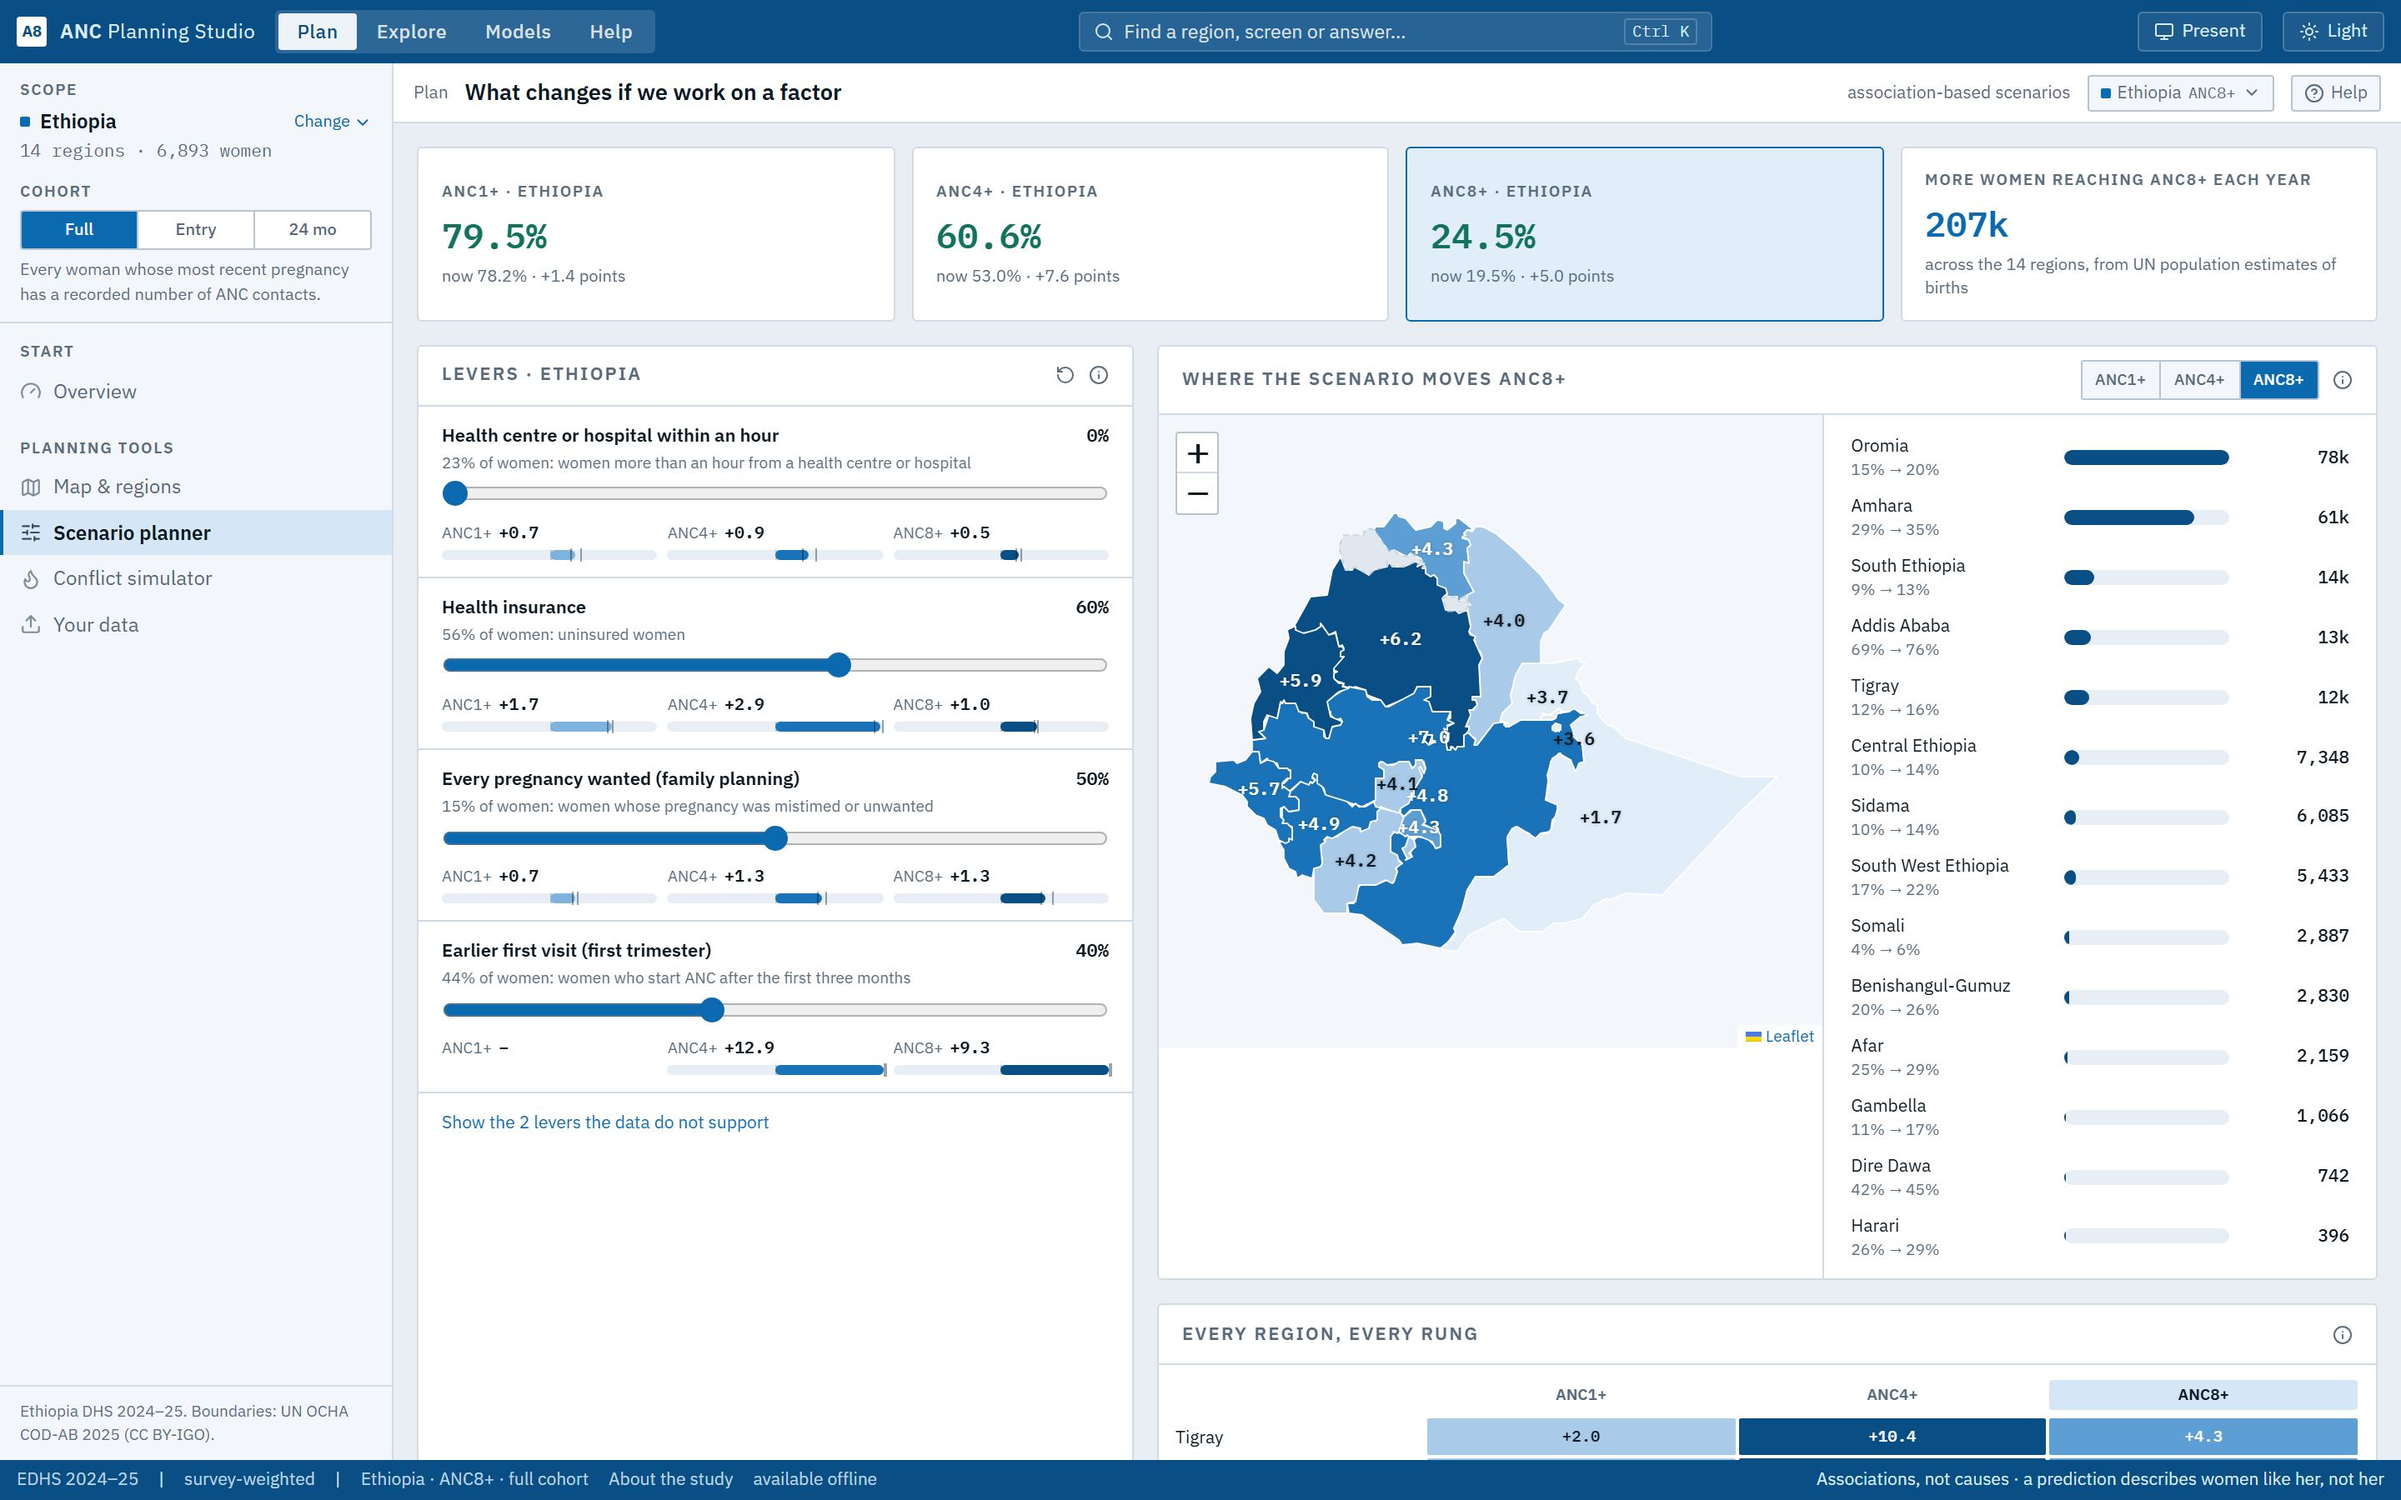
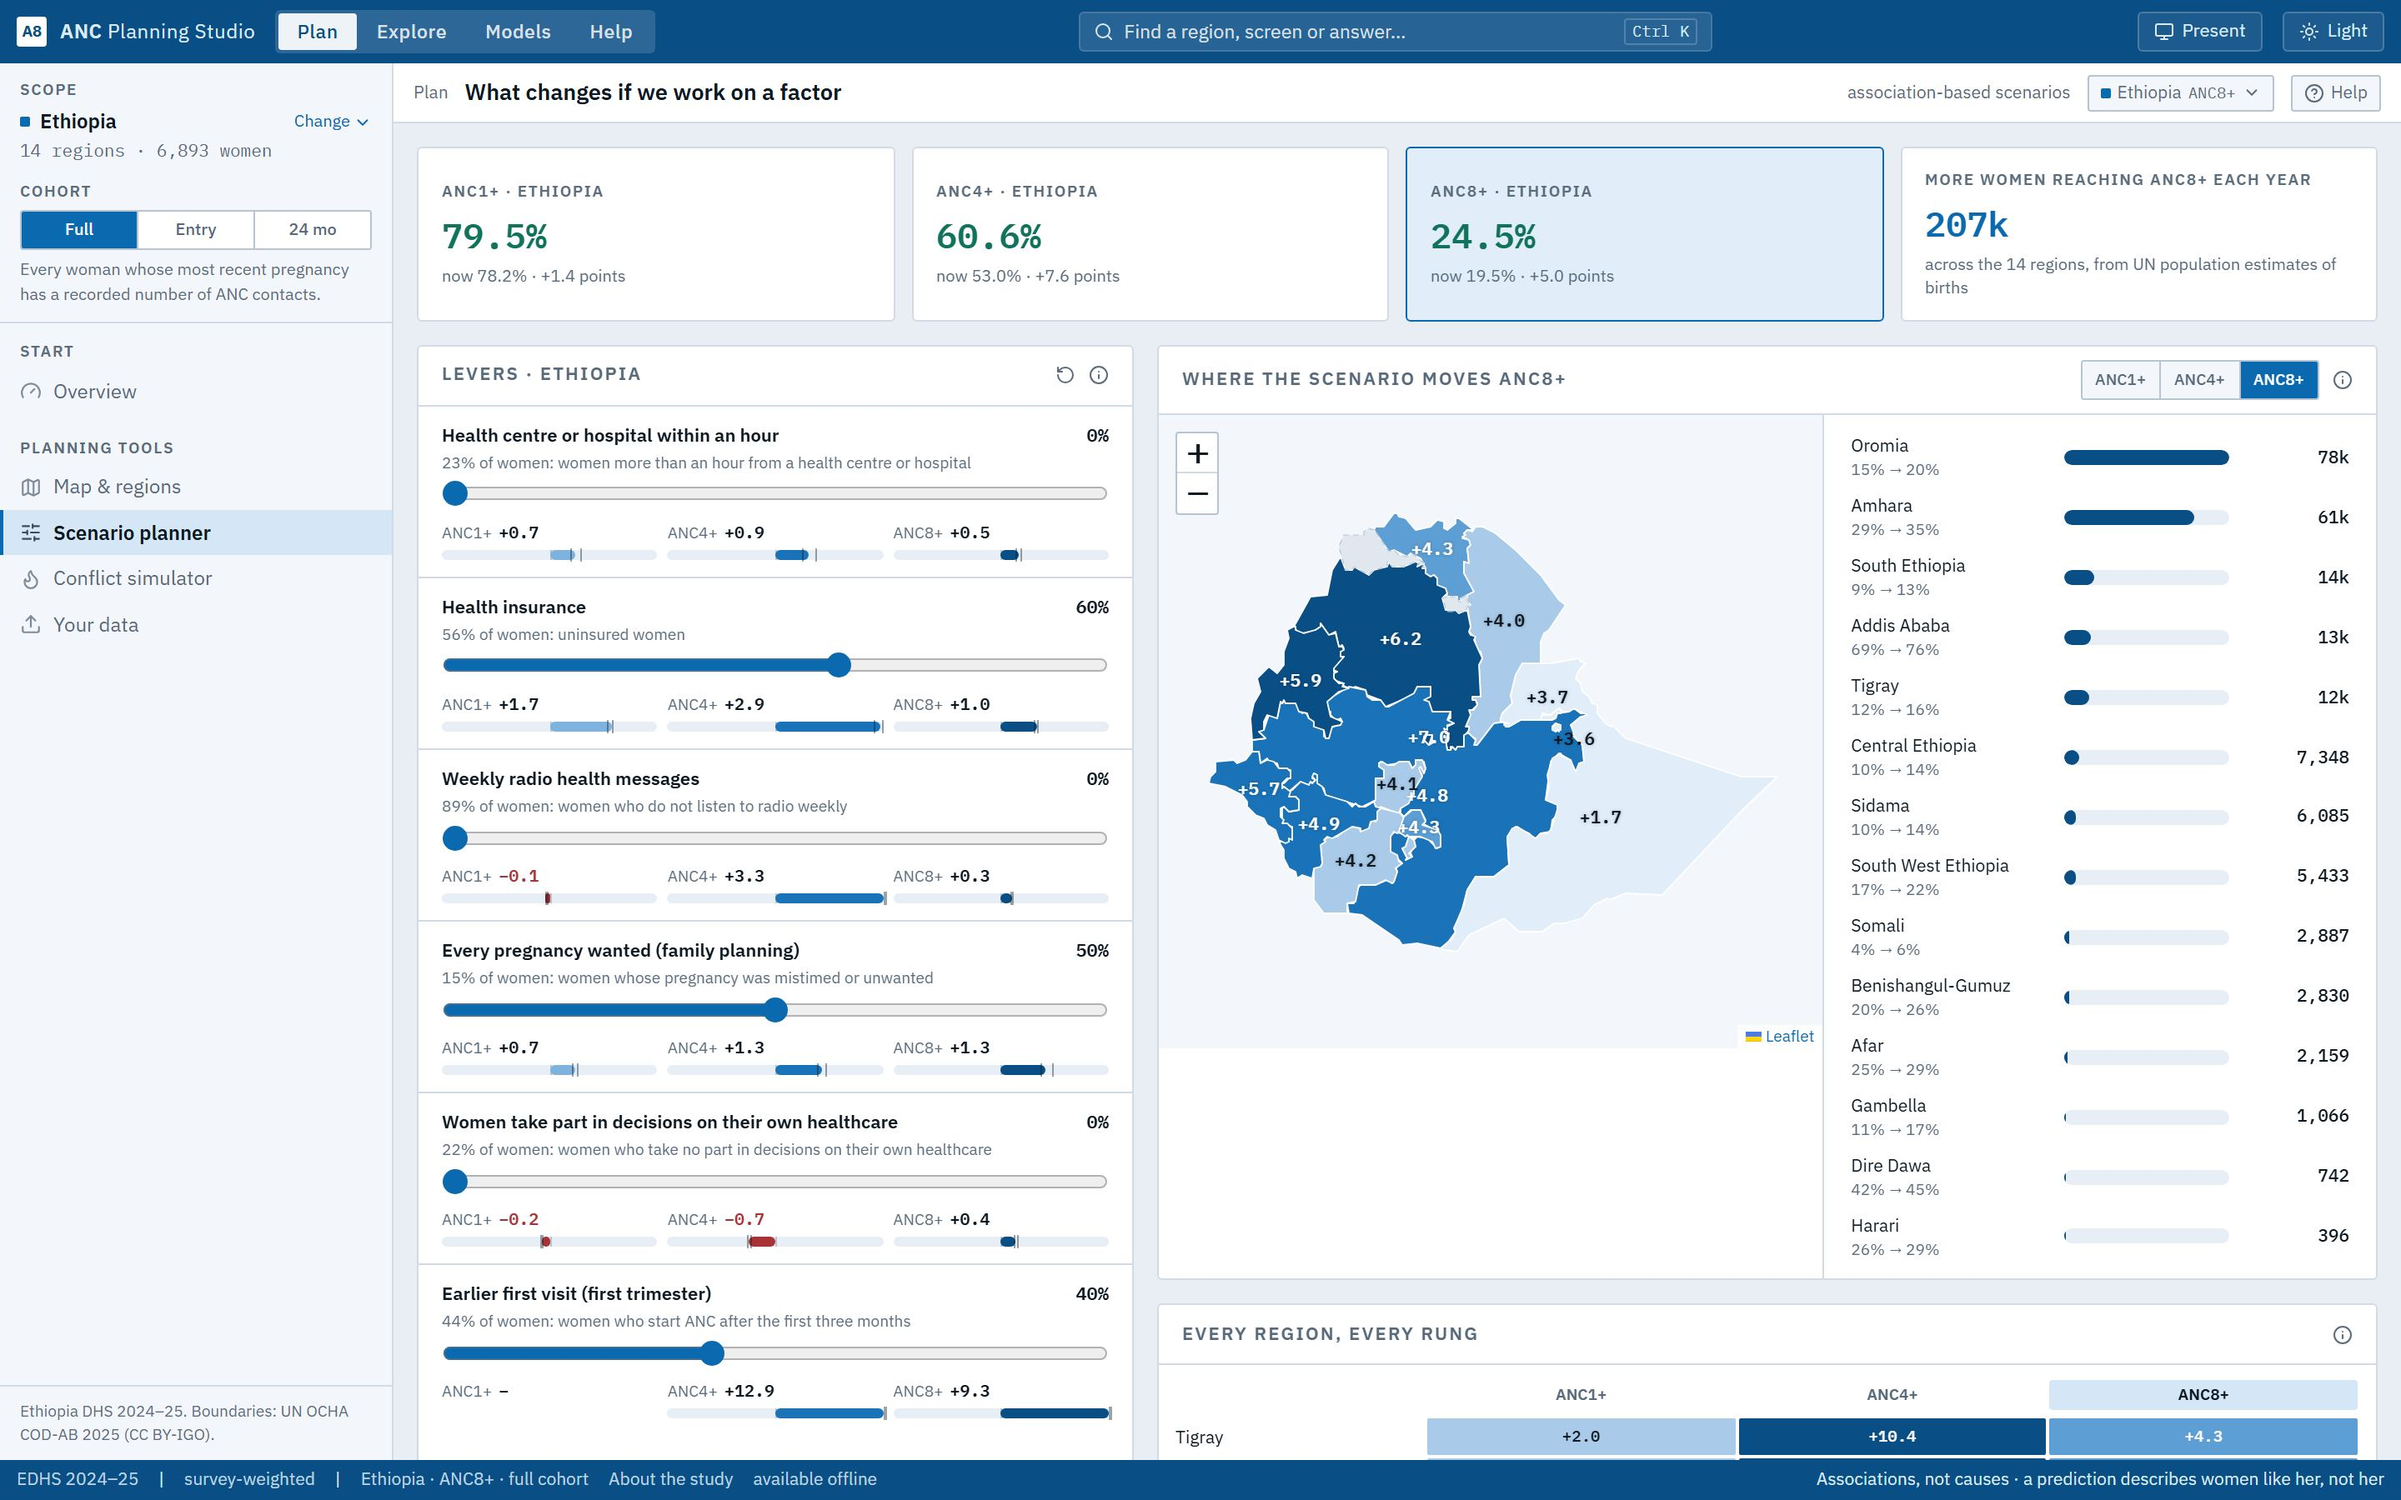
Planner: a lever is judged on the rung being planned
A lever counts as supported where the model expects the chosen rung to rise,
not only where every rung rises. Weekly radio and taking part in healthcare
decisions are supported at ANC8+; decisions stays flagged at ANC1+ and ANC4+,
radio at ANC1+. The link and panel for unsupported levers appear only when
there are some, and name the rung.

diff --git a/app/src/app/planner/page.tsx b/app/src/app/planner/page.tsx
@@ -62,7 +62,7 @@ export default function PlannerPage() {
 
   const view = useMemo(() => {
     if (!sc.data || !reg.data) return null;
-    const d = forModel(sc.data, lm);
+    const d = forModel(sc.data, lm, rung);
     const now = (r: string | null) => {
       const c = r ? reg.data!.cohorts.recent.regions[r] : reg.data!.cohorts.recent.national;
       return { anc1: c.reach1, anc4: c.reach4, anc8: c.reach8 };
@@ -77,7 +77,7 @@ export default function PlannerPage() {
     ) as Record<SRung, number>;
     // the same scenario under every lever model, for the comparison
     const byModel = Object.fromEntries(models.map((m) => {
-      const dm = forModel(sc.data!, m);
+      const dm = forModel(sc.data!, m, rung);
       return [m, {
         national: project(dm, dm.regions.length - 1, now(null), cov),
         byRegion: Object.fromEntries(REGION_NAMES.map((r) => [r, project(dm, dm.regions.indexOf(r), now(r), cov)])),
@@ -85,12 +85,12 @@ export default function PlannerPage() {
     }));
     return { byRegion, national, births, gained, byModel };
     // eslint-disable-next-line react-hooks/exhaustive-deps
-  }, [sc.data, reg.data, studio.params.get("lv"), lm]);
+  }, [sc.data, reg.data, studio.params.get("lv"), lm, rung]);
 
   const err = sc.error ?? reg.error ?? geo.error;
   if (err) return <Screen><InlineError message={err} /></Screen>;
   if (!sc.data || !reg.data || !view) return <Screen><PanelLoading rows={10} /></Screen>;
-  const d = forModel(sc.data, lm);
+  const d = forModel(sc.data, lm, rung);
   const modelPicker = models.length > 1 ? (
     <Segmented label="Levers from" options={models.map((m) => ({ key: m, label: m === "ebm" ? "Boosting" : "Logistic", title: MODEL_SHORT[m] }))}
       value={lm} onChange={(k) => studio.set({ lm: k })} />
@@ -191,11 +191,13 @@ export default function PlannerPage() {
               );
             })}
           </div>
-          <div className="px-14 py-10 border-t border-border flex items-center gap-8">
-            <button type="button" onClick={() => setShowAll((s) => !s)} className="text-10.5 text-accent hover:underline">
-              {showAll ? "Hide" : "Show"} the {unsupported.length} levers the data do not support
-            </button>
-          </div>
+          {unsupported.length > 0 && (
+            <div className="px-14 py-10 border-t border-border flex items-center gap-8">
+              <button type="button" onClick={() => setShowAll((s) => !s)} className="text-10.5 text-accent hover:underline">
+                {showAll ? "Hide" : "Show"} the {unsupported.length === 1 ? "lever" : `${unsupported.length} levers`} the data do not support at {RUNG_LABEL[rung]}
+              </button>
+            </div>
+          )}
         </Panel>
 
         <div className="flex flex-col gap-10 md:gap-14 min-w-0">
@@ -384,9 +386,10 @@ export default function PlannerPage() {
         </div>
       </div>
 
+      {unsupported.length > 0 && (
       <Panel help="planner.unsupported"
-        title="Levers the data do not support"
-        how="Levers where the chosen model expects at least one rung to fall, not rise, when the lever is applied. Every lever model is shown. These are associations: women who listen to the radio weekly, for example, are no more likely to use ANC in this survey, once everything else about them is known. They are not evidence that the programmes would harm; they are evidence that the survey cannot show they would help."
+        title={`Levers the data do not support · ${RUNG_LABEL[rung]}`}
+        how={`Levers where the chosen model expects ${RUNG_LABEL[rung]} to fall, not rise, when the lever is applied. Every lever model is shown. These are associations: women who listen to the radio weekly, for example, are no more likely to use ANC in this survey, once everything else about them is known. They are not evidence that the programmes would harm; they are evidence that the survey cannot show they would help.`}
       >
         <Table
           minWidth={620}
@@ -419,6 +422,7 @@ export default function PlannerPage() {
         </div>
         <DataNote>Results from programmes actually delivered (enrolment drives, new health posts, family-planning outreach), with ANC counts before and after, would turn these associations into effect estimates.</DataNote>
       </Panel>
+      )}
     </Screen>
   );
 }

diff --git a/app/src/lib/help/plan.ts b/app/src/lib/help/plan.ts
@@ -320,7 +320,7 @@ export const PLAN: HelpTopic[] = [
           "Sliders combine exactly, not by simple adding: two levers that reach the same women do not double-count.",
           "Logistic regression on the 21 predictors scores the levers; everything on the page follows it.",
           "The circular arrow in the title clears all levers.",
-          "**Show the levers the data do not support** adds the levers where the model expects at least one rung to fall; they are there for honesty, marked \"not supported\".",
+          "**Show the levers the data do not support** adds the levers where the model expects the chosen rung to fall; they are there for honesty, marked \"not supported\". Switch the rung and the verdict can change.",
         ],
         watch: "Association-based: what the model expects if women's circumstances changed, not what a programme would cause.",
         terms: ["lever", "eligible", "g-computation", "association"],
@@ -390,7 +390,7 @@ export const PLAN: HelpTopic[] = [
       {
         id: "unsupported",
         title: "Levers the data do not support",
-        shows: "The levers where the chosen model expects at least one rung to fall, not rise, when applied, with every lever model's estimates.",
+        shows: "The levers where the chosen model expects the chosen rung to fall, not rise, when applied, with their effect on every rung.",
         read: [
           "Each cell: the change at full reach from logistic regression.",
           "These do not show the programmes would harm. They show the survey cannot show they would help: women who listen to the radio weekly, for example, are no more likely to complete care once everything else about them is known.",

diff --git a/app/src/lib/scenario.ts b/app/src/lib/scenario.ts
@@ -27,6 +27,8 @@ export interface Lever {
   supported: boolean;
   /** Supported under each lever model (every rung rises). */
   supported_by?: Record<string, boolean>;
+  /** Per lever model and rung: does the model expect that rung to rise? */
+  supported_at?: Record<string, Record<string, boolean>>;
   models_agree: boolean;
 }
 
@@ -62,11 +64,14 @@ export const EARLY = "early";
 
 export const MODEL_SHORT: Record<string, string> = { ebm: "Explainable boosting", logistic: "Logistic regression" };
 
-/** The scenario as one lever model sees it: its numbers and its own "supported" verdicts. */
-export function forModel(d: ScenarioData, model: string): ScenarioData {
+/** The scenario as one lever model sees it: its numbers and its own "supported" verdicts,
+ *  on the rung being planned when one is given, else on every rung. */
+export function forModel(d: ScenarioData, model: string, rung?: string): ScenarioData {
   const m = d.by_model?.[model];
-  if (!m) return d;
-  return { ...d, rungs: m.rungs, levers: d.levers.map((l) => ({ ...l, supported: l.supported_by?.[model] ?? l.supported })) };
+  const verdict = (l: ScenarioData["levers"][number]) =>
+    (rung ? l.supported_at?.[model]?.[rung] : undefined) ?? l.supported_by?.[model] ?? l.supported;
+  if (!m) return { ...d, levers: d.levers.map((l) => ({ ...l, supported: verdict(l) })) };
+  return { ...d, rungs: m.rungs, levers: d.levers.map((l) => ({ ...l, supported: verdict(l) })) };
 }
 
 /** Coverage per lever key (0..1), including "early". */

diff --git a/app/src/app/about/page.tsx b/app/src/app/about/page.tsx
@@ -93,7 +93,7 @@ export default function AboutPage() {
           <Row to="/war" go="Conflict simulator"
             text={<>The Tigray war cut first contact by about <b className="font-mono">{n(war?.did_check.anc1.did, (v) => `${Math.round(v * 100)}`)}</b> points.</>} />
           <Row to="/planner" go="Scenario planner"
-            text={<><b className="font-mono">{supported ?? "…"}</b> levers are supported by the data; the rest are shown but not backed.</>} />
+            text={<><b className="font-mono">{supported ?? "…"}</b> levers raise every rung; the others raise some rungs and not others.</>} />
           <Row to="/your-data?mode=register" go="First-visit screener" text="Twelve questions match the 21-predictor model." />
           <Row to="/models" go="Model analysis"
             text={<>The three models on the 21 finish within <b className="font-mono">{n(spread8, (v) => v.toFixed(2))}</b> average precision of each other at ANC8+.</>} />

diff --git a/app/src/app/page.tsx b/app/src/app/page.tsx
@@ -132,7 +132,7 @@ function ActOn() {
     const never = REGION_NAMES.map((r) => ({ r, n: births(r) * R.cohorts.recent.regions[r].never }))
       .sort((a, b) => b.n - a.n)[0];
     const natIdx = sc.data.regions.length - 1;
-    const levers = [...sc.data.levers.filter((l) => l.supported).map((l) => l.key), EARLY]
+    const levers = [...sc.data.levers.filter((l) => l.supported_at?.[sc.data!.primary ?? "logistic"]?.anc8 ?? l.supported).map((l) => l.key), EARLY]
       .map((k) => ({ k, v: leverWeight(sc.data!, k, natIdx).anc8?.v ?? 0 }))
       .sort((a, b) => b.v - a.v);
     const top = levers[0];

diff --git a/scripts/export_viz_data.py b/scripts/export_viz_data.py
@@ -228,11 +228,14 @@ def scenarios_block() -> dict | None:
         m["primary"] = keep[0]
     m["rungs"] = m["by_model"][m["primary"]]["rungs"]
     rungs = ("anc1", "anc4", "anc8")
-    # A lever is offered by default only where the data back it: the model expects
-    # every rung to rise when it is applied. The others are shown, with their numbers,
-    # as levers the data do not support. Each lever model is judged on its own.
+    # A lever is offered by default only where the data back it: the model expects the
+    # rung being planned to rise when it is applied (supported_at, per rung). The others
+    # are shown, with their numbers, as levers the data do not support at that rung.
+    # `supported` keeps the stricter reading, every rung rises. Each lever model is
+    # judged on its own.
     for i, lv in enumerate(m["levers"]):
         gains = {k: [m["by_model"][k]["rungs"][r]["gain"][-1][i] for r in rungs] for k in keep}
+        lv["supported_at"] = {k: {r: g > 0 for r, g in zip(rungs, v)} for k, v in gains.items()}
         lv["supported_by"] = {k: all(g > 0 for g in v) for k, v in gains.items()}
         lv["supported"] = lv["supported_by"][m["primary"]]
         signs = [tuple(g > 0 for g in v) for v in gains.values()]
